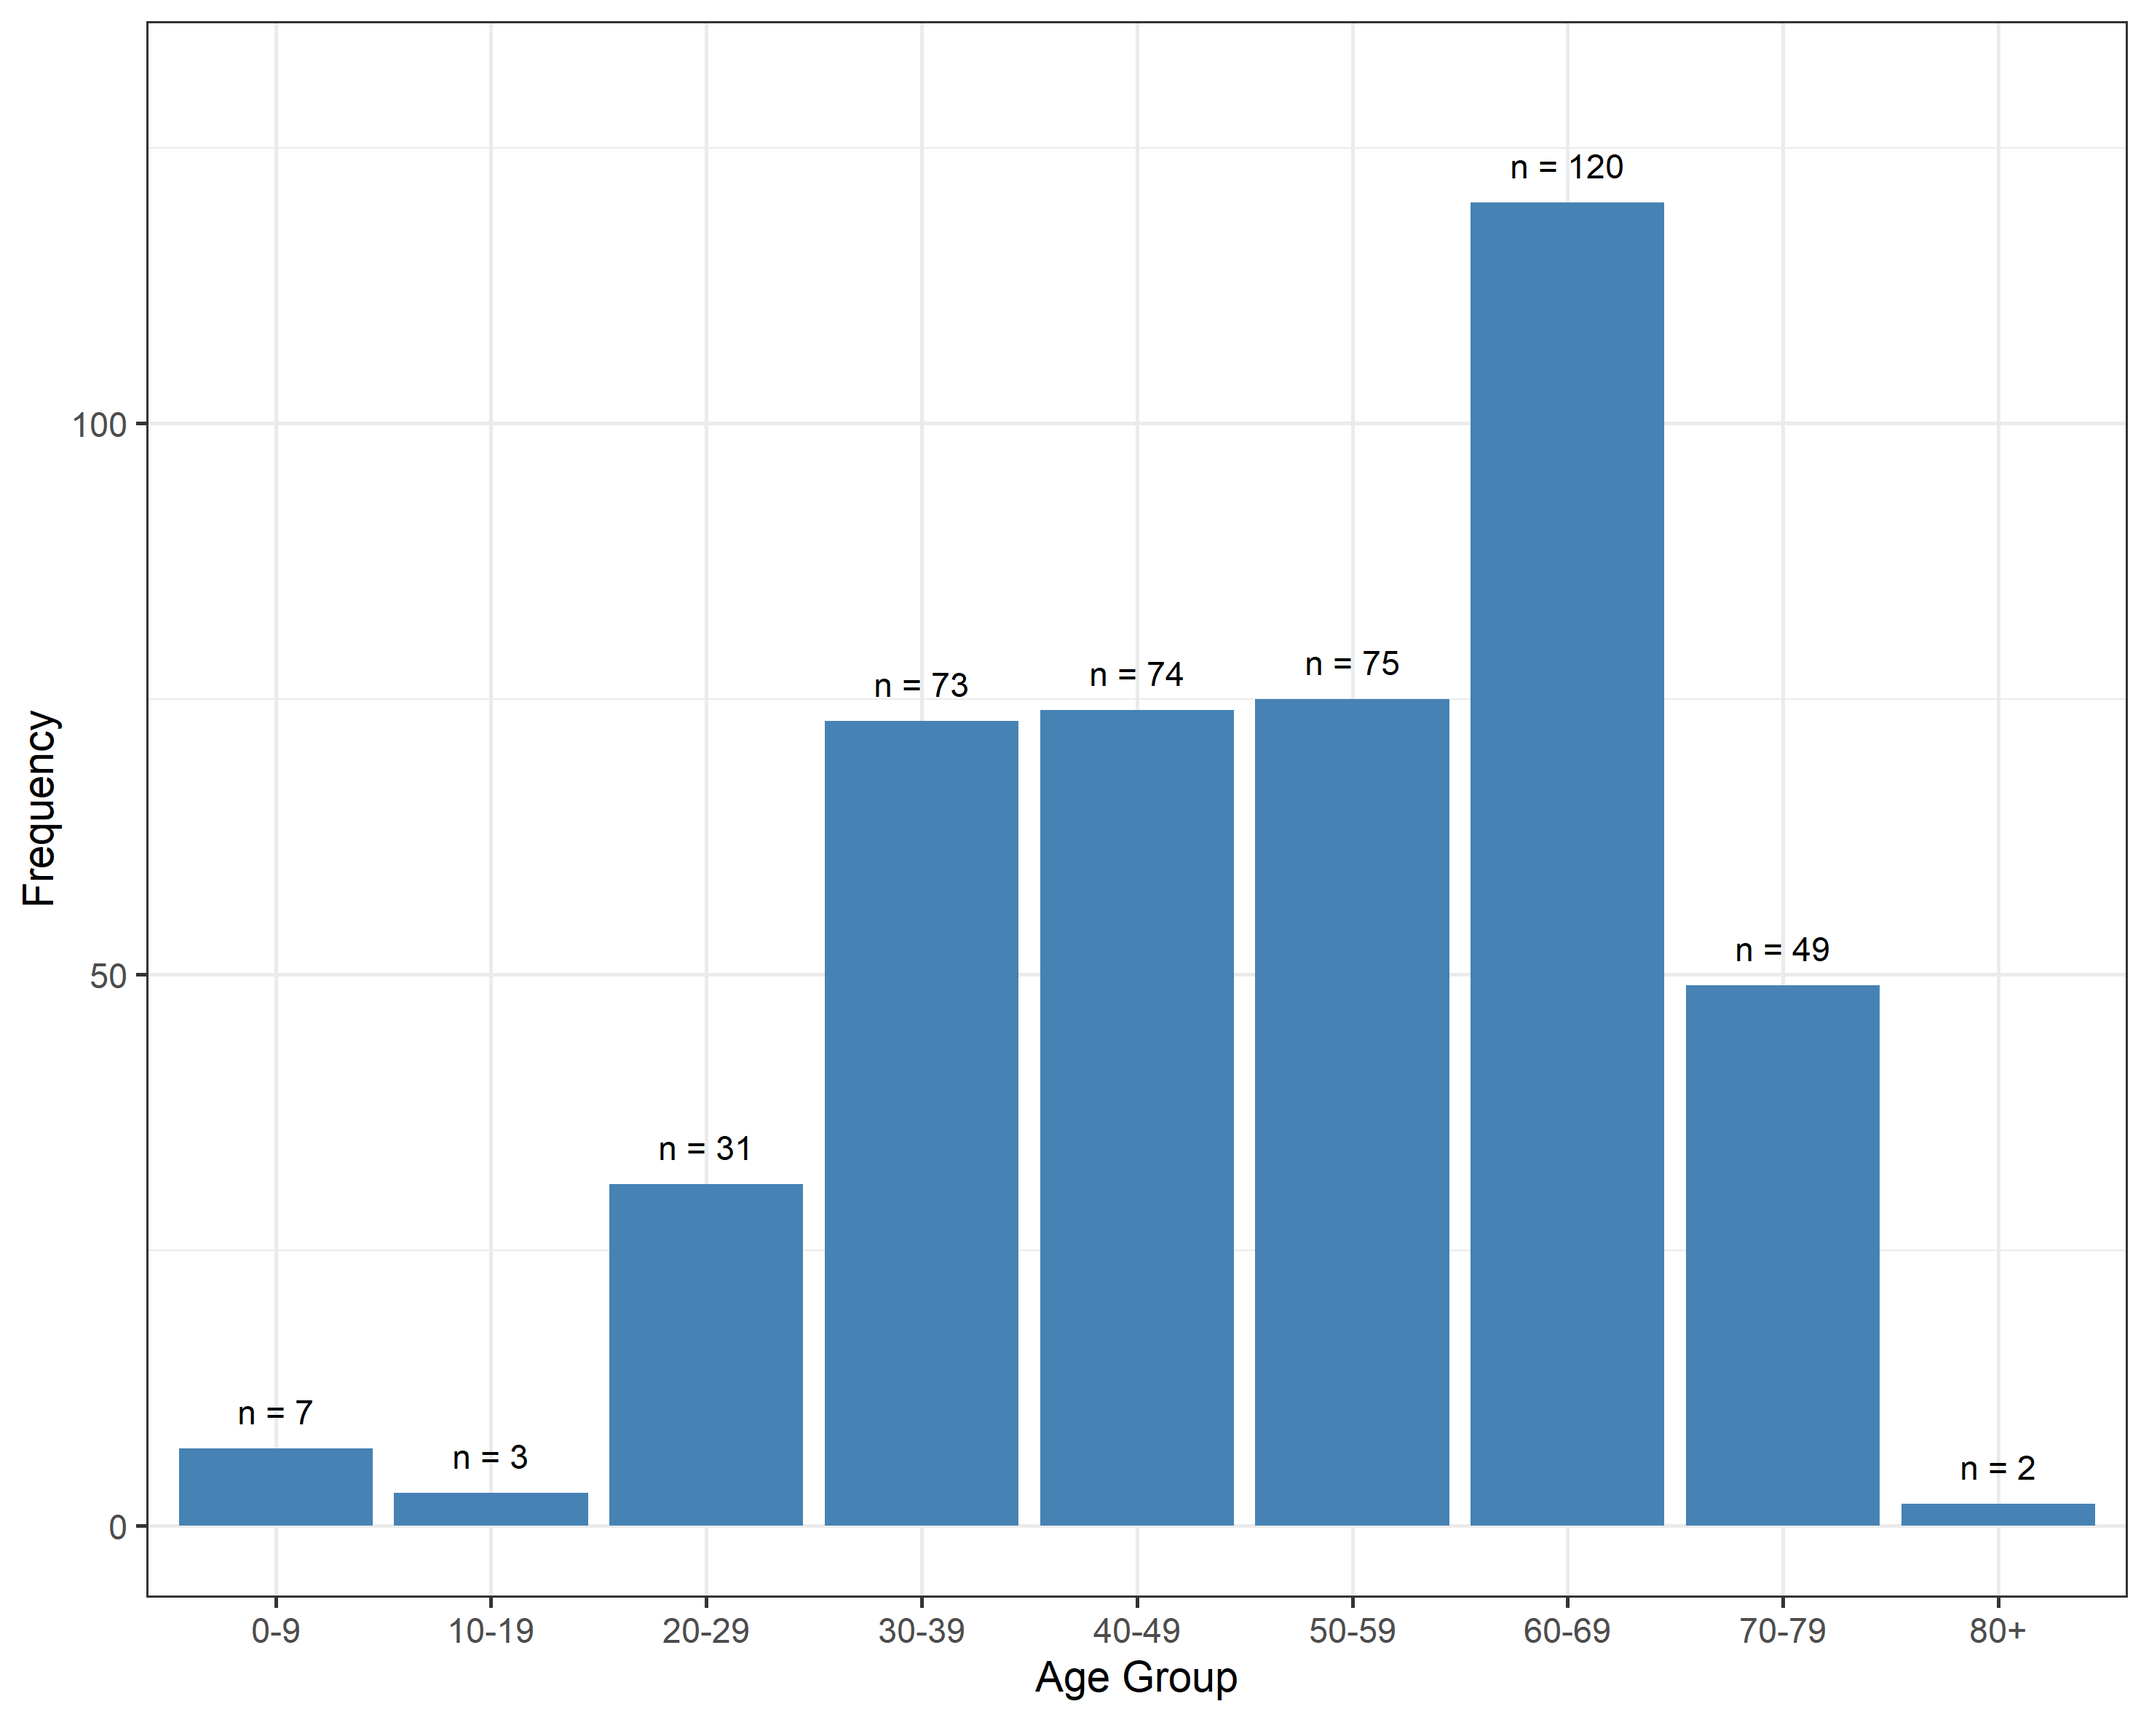
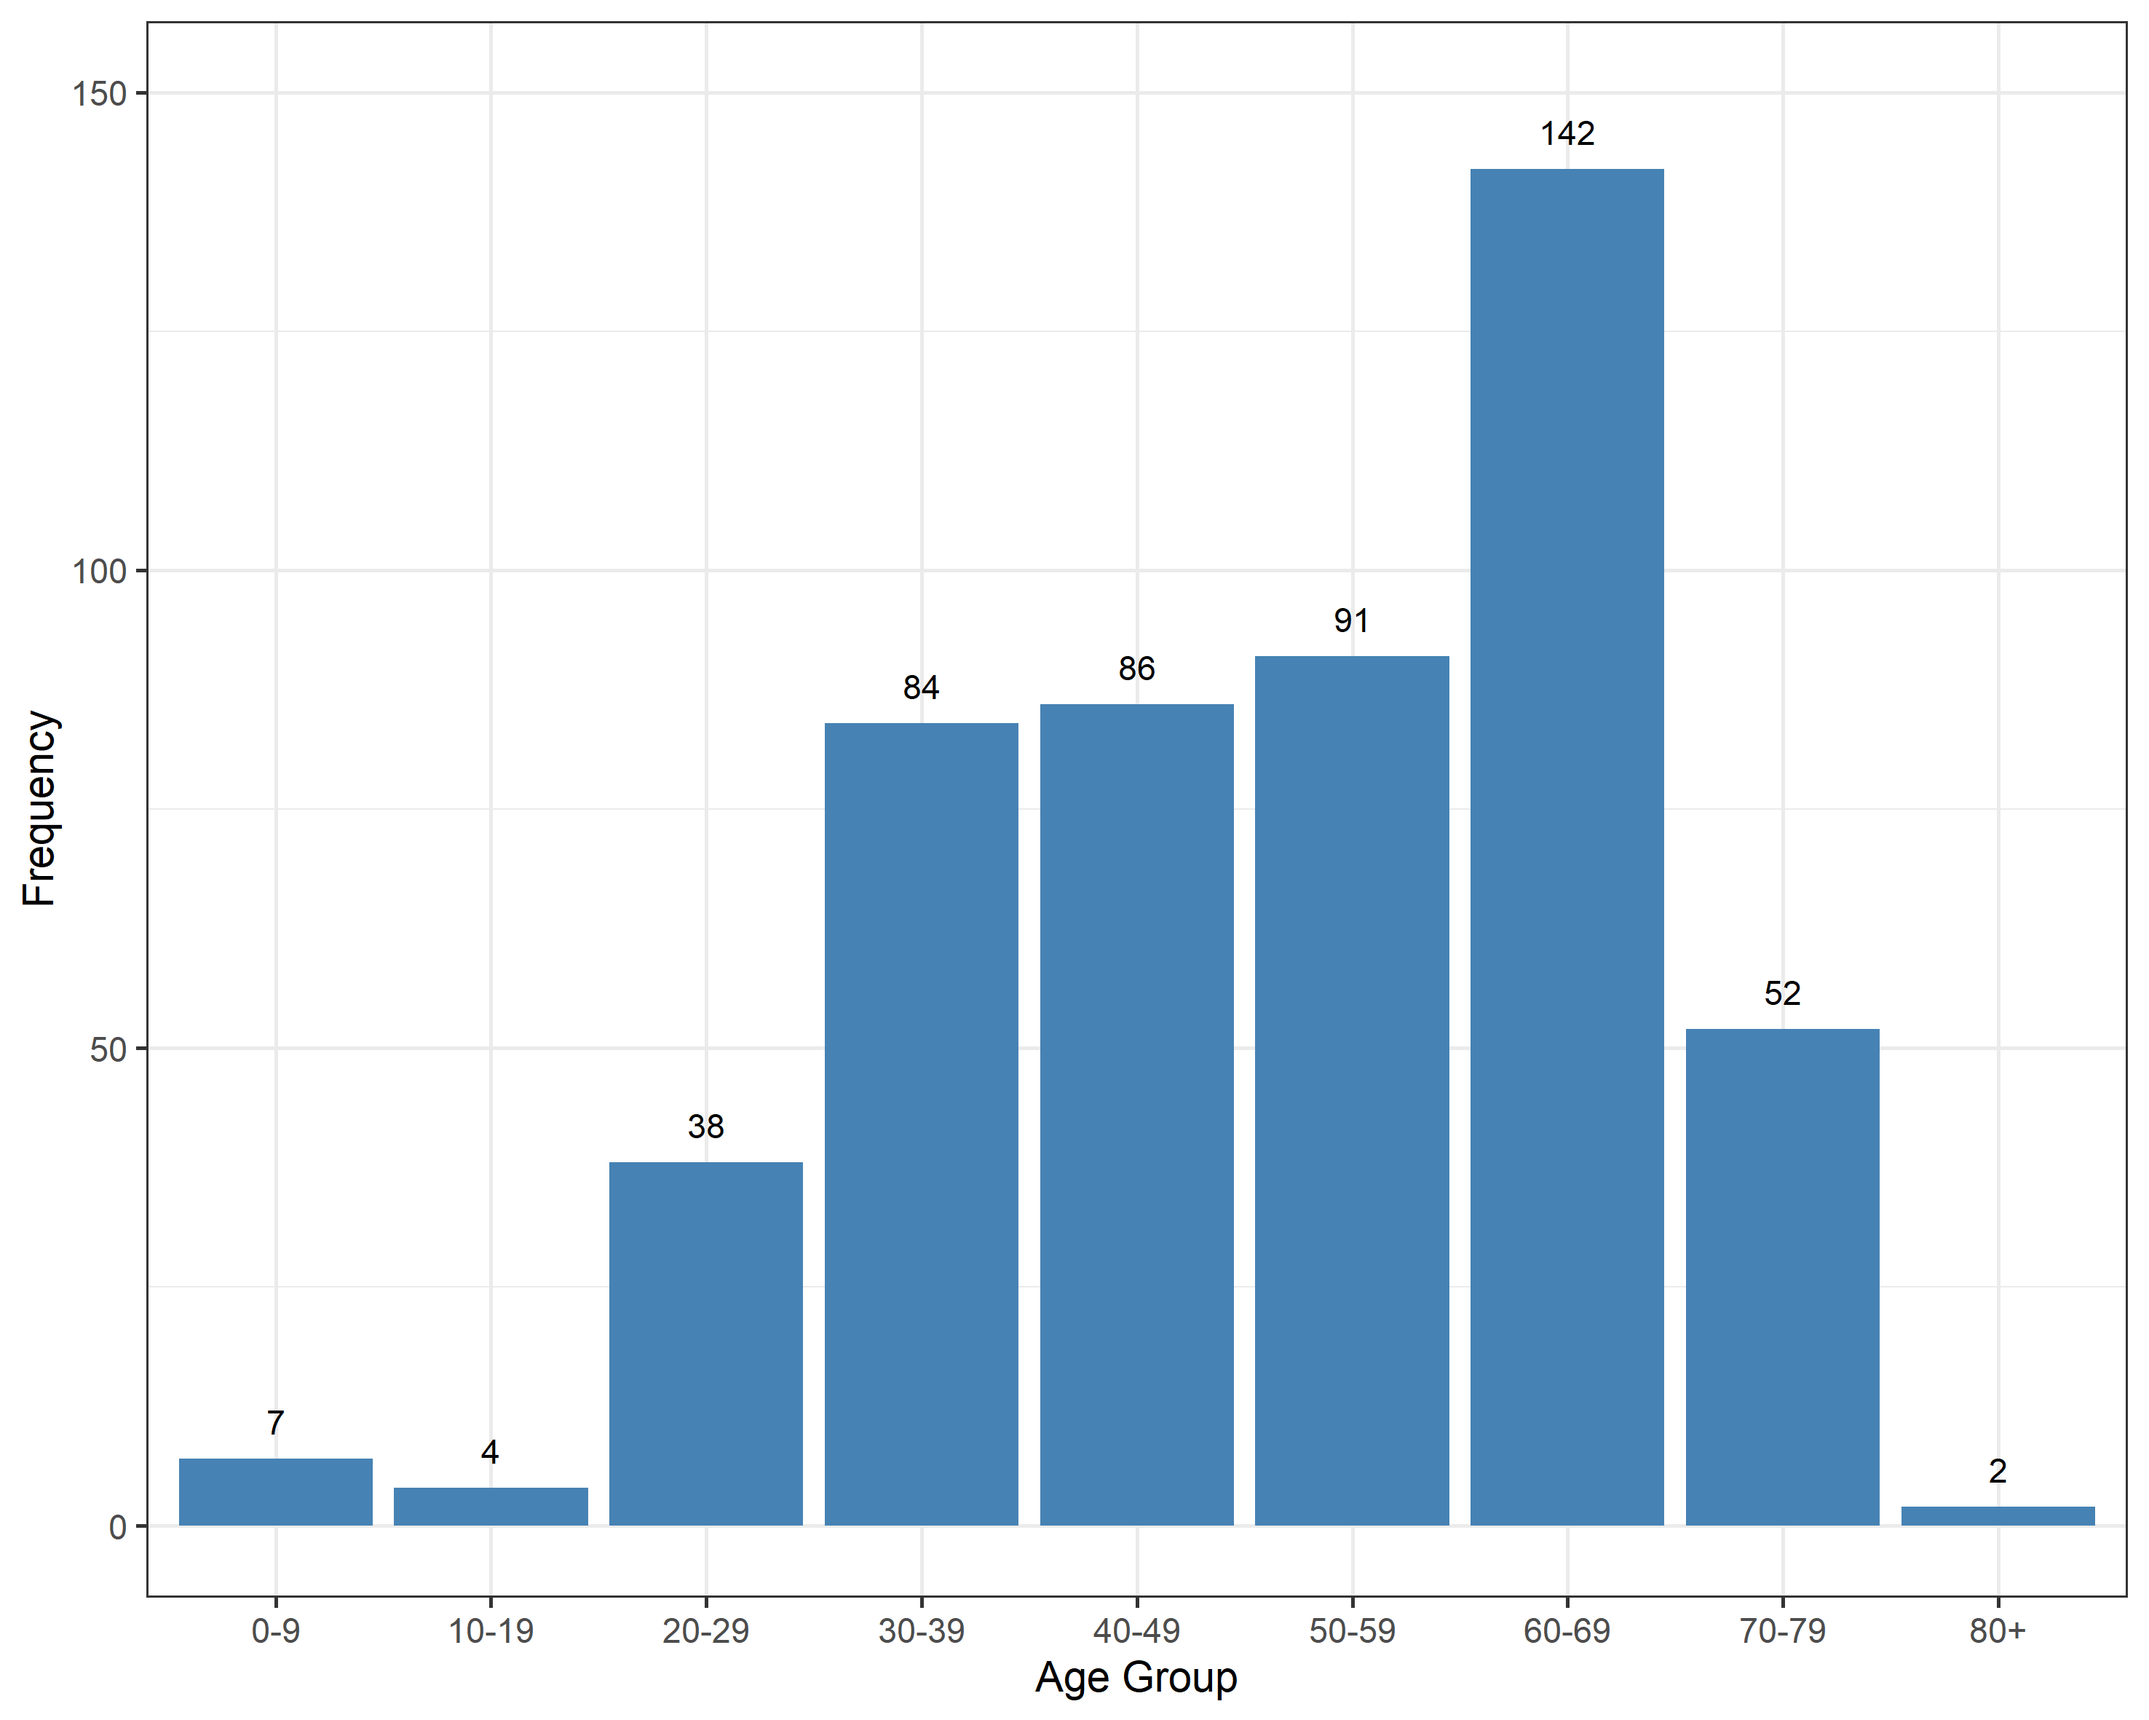
Update results 16/05

diff --git a/public/assets/locales/fr-be/markdowns/results-0.md b/public/assets/locales/fr-be/markdowns/results-0.md
@@ -1,4 +1,4 @@
-`Dernière modification de cette page le 26.apr.2021 14:00.`
+`Dernière modification de cette page le 16.mai.2021 14:00.`
 <br />
 
 On this page you will be able to see the latest results from the data collected by Infectieradar.be.
@@ -7,7 +7,7 @@ On this page you will be able to see the latest results from the data collected 
 
 ## Background Information
 
-On April 26, 2021 we had 435 participants. 50.1% of the participants are female, and 49.9% male. The majority of the participants (84.1%) reported having no previous Covid-19 episode. 3.9% of the participants had a positive Covid-19 test in the past. 11.9% of the participants think they had a previous Covid-19 episode.
+On May 16, 2021 we had 507 participants. 52.5% of the participants are female, and 47.5% male. The majority of the participants (83.4%) reported having no previous Covid-19 episode. 4.2% of the participants had a positive Covid-19 test in the past. 12.5% of the participants think they had a previous Covid-19 episode.
 <br />
 
 ### Age distribution
@@ -25,10 +25,11 @@ On April 26, 2021 we had 435 participants. 50.1% of the participants are female,
 
 ## Weekly Symptoms
 
-On April 26, 2021 we had 1427 completed weekly symptom questionnaires from 411 participants. In 74,1% of the symptom questionnaires it was reported that there were *no symptoms*.
+On May 16, 2021 we had 2410 completed weekly symptom questionnaires from 478 participants. In 75,6% of the symptom questionnaires it was reported that there were *no symptoms*.
 
 ### Reported symptoms
 
 In the figure below we present how often (in percentages) a symptom was reported in questionnaires where at least one symptom was reported.
 
 <img src="assets/images/ReportedSymptoms_NL.png" width="100%">
+

diff --git a/public/assets/locales/nl-be/markdowns/results-0.md b/public/assets/locales/nl-be/markdowns/results-0.md
@@ -1,4 +1,4 @@
-`Deze pagina is voor het laatst aangepast op 26.apr.2021 14:00.`
+`Deze pagina is voor het laatst aangepast op 16.mei.2021 14:00.`
 <br />
 
 Op deze pagina vindt u de actuele resultaten van Infectieradar.
@@ -7,7 +7,7 @@ Op deze pagina vindt u de actuele resultaten van Infectieradar.
 
 ## Achtergrond Informatie
 
-Op 26 april 2021 hadden we 435 deelnemers. 50.1% van de deelnemers is vrouw, en 49.9% is man. Een meerderheid van deelnemers (84.1%) rapporteerden dat ze nog geen Covid-19 hebben gehad. 3.9% van de deelnemers hebben in het verleden positief getest op Covid-19. 11.9% van de deelnemers hebben een sterk vermoeden dat ze Covid-19 hebben gehad.
+Op 16 mei 2021 hadden we 507 deelnemers. 52,5% van de deelnemers is vrouw, en 47.5% is man. Een meerderheid van deelnemers (83.4%) rapporteerden dat ze nog geen Covid-19 hebben gehad. 4.2% van de deelnemers hebben in het verleden positief getest op Covid-19. 12.5% van de deelnemers hebben een sterk vermoeden dat ze Covid-19 hebben gehad.
 <br />
 
 ### Leeftijdsverdeling
@@ -25,7 +25,7 @@ Op 26 april 2021 hadden we 435 deelnemers. 50.1% van de deelnemers is vrouw, en 
 
 ## Wekelijkse Symptomen
 
-Op 26 april 2021 hadden we 1427 ingevulde wekelijkse symptomen vragenlijsten van 411 deelnemers. In 74,1% van de vragenlijsten werd gerapporteerd dat er *geen symptomen* waren.
+Op 16 mei 2021 hadden we 2410 ingevulde wekelijkse symptomen vragenlijsten van 478 deelnemers. In 75.6% van de vragenlijsten werd gerapporteerd dat er *geen symptomen* waren.
 
 ### Gerapporteerde symptomen
 In de figuur hieronder geven we procentueel aan hoe vaak een bepaald symptoom is gerapporteerd in de vragenlijsten waarbij minstens één symptoom werd doorgegeven.

diff --git a/public/assets/locales/de-be/markdowns/results-0.md b/public/assets/locales/de-be/markdowns/results-0.md
@@ -1,4 +1,4 @@
-`Diese Seite wurde zum letzten Mal angepasst am 26.apr.2021 14:00.`
+`Diese Seite wurde zum letzten Mal angepasst am 16.Mai.2021 14:00.`
 <br />
 
 On this page you will be able to see the latest results from the data collected by Infectieradar.be.
@@ -7,7 +7,7 @@ On this page you will be able to see the latest results from the data collected 
 
 ## Background Information
 
-On April 26, 2021 we had 435 participants. 50.1% of the participants are female, and 49.9% male. The majority of the participants (84.1%) reported having no previous Covid-19 episode. 3.9% of the participants had a positive Covid-19 test in the past. 11.9% of the participants think they had a previous Covid-19 episode.
+On May 16, 2021 we had 507 participants. 52.5% of the participants are female, and 47.5% male. The majority of the participants (83.4%) reported having no previous Covid-19 episode. 4.2% of the participants had a positive Covid-19 test in the past. 12.5% of the participants think they had a previous Covid-19 episode.
 <br />
 
 ### Age distribution
@@ -25,7 +25,7 @@ On April 26, 2021 we had 435 participants. 50.1% of the participants are female,
 
 ## Weekly Symptoms
 
-On April 26, 2021 we had 1427 completed weekly symptom questionnaires from 411 participants. In 74,1% of the symptom questionnaires it was reported that there were *no symptoms*.
+On May 16, 2021 we had 2410 completed weekly symptom questionnaires from 478 participants. In 75,6% of the symptom questionnaires it was reported that there were *no symptoms*.
 
 ### Reported symptoms
 

diff --git a/public/assets/locales/en/markdowns/results-0.md b/public/assets/locales/en/markdowns/results-0.md
@@ -1,4 +1,4 @@
-`This page has been last updated at 26.apr.2021 14:00.`
+`This page has been last updated at 16.may.2021 14:00.`
 <br />
 
 On this page you will be able to see the latest results from the data collected by Infectieradar.be.
@@ -7,7 +7,7 @@ On this page you will be able to see the latest results from the data collected 
 
 ## Background Information
 
-On April 26, 2021 we had 435 participants. 50.1% of the participants are female, and 49.9% male. The majority of the participants (84.1%) reported having no previous Covid-19 episode. 3.9% of the participants had a positive Covid-19 test in the past. 11.9% of the participants think they had a previous Covid-19 episode.
+On May 16, 2021 we had 507 participants. 52.5% of the participants are female, and 47.5% male. The majority of the participants (83.4%) reported having no previous Covid-19 episode. 4.2% of the participants had a positive Covid-19 test in the past. 12.5% of the participants think they had a previous Covid-19 episode.
 <br />
 
 ### Age distribution
@@ -25,7 +25,7 @@ On April 26, 2021 we had 435 participants. 50.1% of the participants are female,
 
 ## Weekly Symptoms
 
-On April 26, 2021 we had 1427 completed weekly symptom questionnaires from 411 participants. In 74,1% of the symptom questionnaires it was reported that there were *no symptoms*.
+On May 16, 2021 we had 2410 completed weekly symptom questionnaires from 478 participants. In 75,6% of the symptom questionnaires it was reported that there were *no symptoms*.
 
 ### Reported symptoms
 
